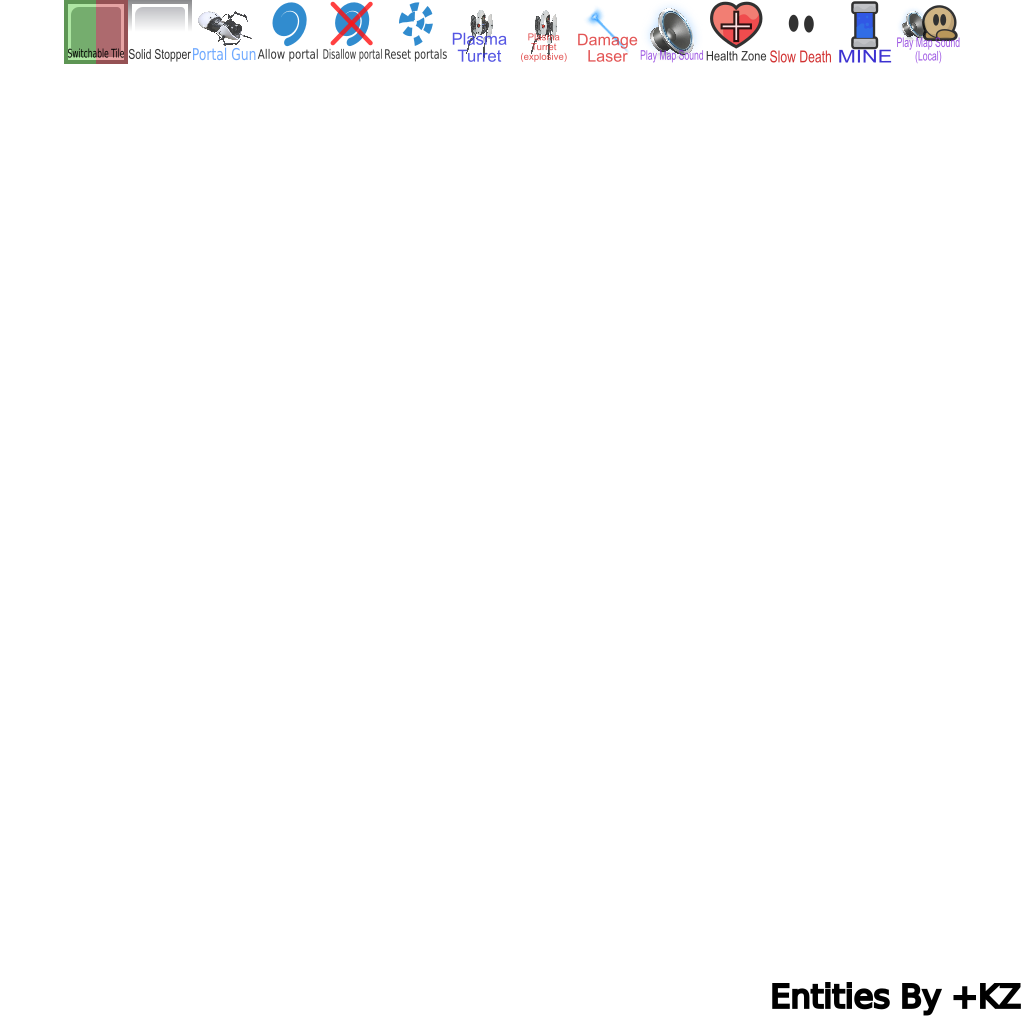
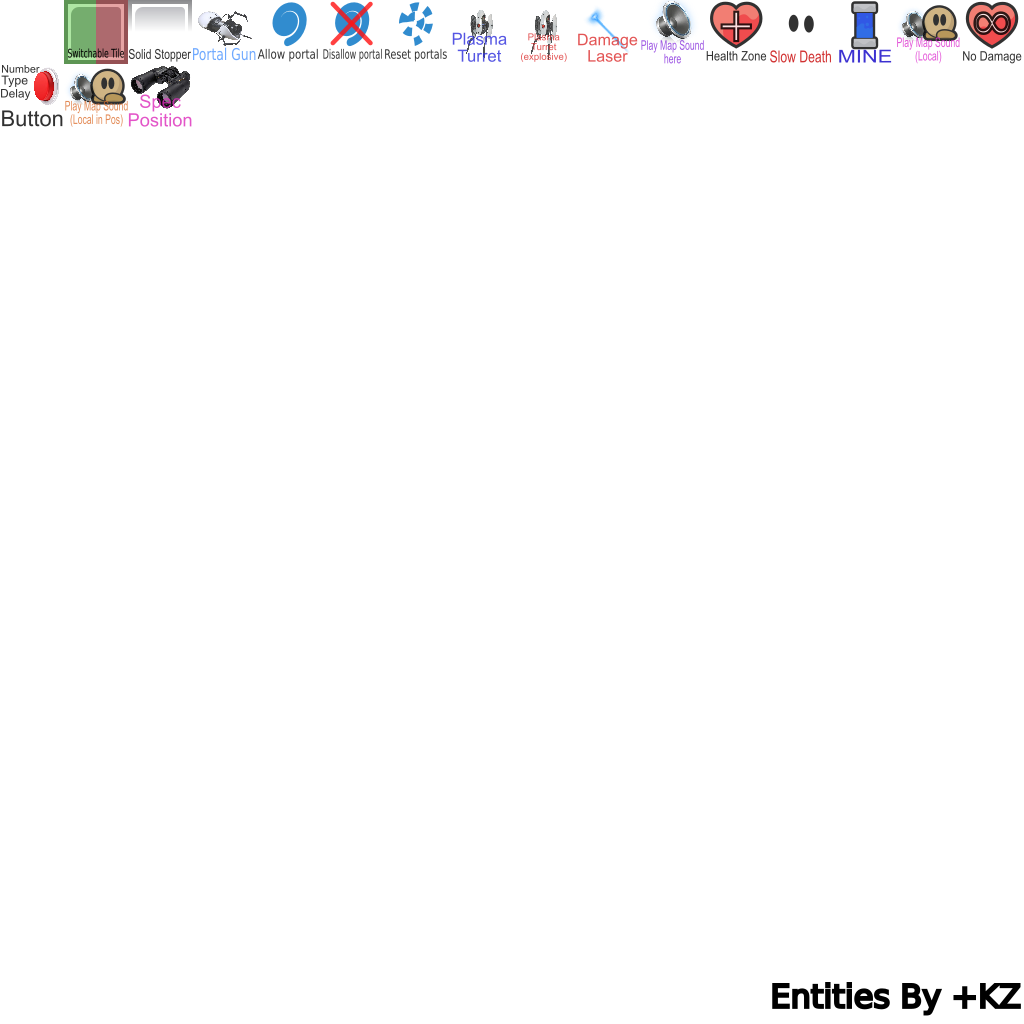
even more tiles

Changed region(s): [[0.0, 0.0625, 0.1875, 0.125], [0.875, 0.0, 1.0, 0.0625], [0.625, 0.0, 0.6875, 0.0625]]

diff --git a/src/game/server/entities/character.cpp b/src/game/server/entities/character.cpp
@@ -900,6 +900,9 @@ void CCharacter::Tick()
 	m_PrevInput = m_Input;
 
 	m_PrevPos = m_Core.m_Pos;
+
+	//+KZ
+	m_StillPressingFire = (m_Input.m_Fire & 1);
 }
 
 void CCharacter::TickDeferred()
@@ -2772,6 +2775,21 @@ void CCharacter::HandleKZTiles()
 		m_LastLocalSoundPlayed = -1;
 	}
 
+	if(pKZTile && pKZTile->m_Index == KZ_TILE_SOUND_PLAY_LOCAL_IN_POS && m_LastLocalInPosSoundPlayed != pKZTile->m_Value1 && (pKZTile->m_Number ? Switchers()[pKZTile->m_Number].m_aStatus[Team()] : true))
+	{
+		GameServer()->CreateMapSoundEventForClient(m_Pos, pKZTile->m_Value1, m_pPlayer->GetCid(), TeamMask());
+		m_LastLocalInPosSoundPlayed = pKZTile->m_Value1;
+	}
+	else if(pKZTileFront && pKZTileFront->m_Index == KZ_TILE_SOUND_PLAY_LOCAL_IN_POS && m_LastLocalInPosSoundPlayed != pKZTileFront->m_Value1 && (pKZTileFront->m_Number ? Switchers()[pKZTileFront->m_Number].m_aStatus[Team()] : true))
+	{
+		GameServer()->CreateMapSoundEventForClient(m_Pos, pKZTileFront->m_Value1, m_pPlayer->GetCid(), TeamMask());
+		m_LastLocalInPosSoundPlayed = pKZTileFront->m_Value1;
+	}
+	else if(!(pKZTile && pKZTile->m_Index == KZ_TILE_SOUND_PLAY_LOCAL_IN_POS) && !(pKZTileFront && pKZTileFront->m_Index == KZ_TILE_SOUND_PLAY_LOCAL_IN_POS))
+	{
+		m_LastLocalInPosSoundPlayed = -1;
+	}
+
 	if(pKZTile && pKZTile->m_Index == KZ_TILE_HEALTH_ZONE && (pKZTile->m_Number ? Switchers()[pKZTile->m_Number].m_aStatus[Team()] : true) && Server()->Tick() % Server()->TickSpeed() == 0)
 	{
 		IncreaseHealth((int)pKZTile->m_Value1 + 1);
@@ -2790,6 +2808,84 @@ void CCharacter::HandleKZTiles()
 	else if(pKZTileFront && pKZTileFront->m_Index == KZ_TILE_DAMAGE_ZONE && (pKZTileFront->m_Number ? Switchers()[pKZTileFront->m_Number].m_aStatus[Team()] : true) && Server()->Tick() % Server()->TickSpeed() == 0)
 	{
 		TakeDamageVanilla(vec2(0,0),(int)pKZTile->m_Value1 + 1,m_pPlayer ? m_pPlayer->GetCid() : -1, WEAPON_WORLD);
+	}
+
+	//+KZ Game Only Tiles
+	if(pKZTile)
+	{
+		if(!m_NODAMAGE && pKZTile->m_Index == KZ_GAMETILE_NO_DAMAGE && (pKZTile->m_Number ? Switchers()[pKZTile->m_Number].m_aStatus[Team()] : true))
+		{
+			m_NODAMAGE = true;
+			GameServer()->SendChatTarget(m_pPlayer->GetCid(),"Now you can not take damage");
+		}
+
+		if(pKZTile->m_Index == KZ_GAMETILE_TOGGLE_BUTTON && pKZTile->m_Number)
+		{
+			if(!(Server()->Tick() % Server()->TickSpeed()))
+			{
+				GameServer()->SendBroadcast("Hammer the button to use it", m_pPlayer->GetCid(), false);
+			}
+
+			if(m_Core.m_ActiveWeapon == WEAPON_HAMMER && (m_Input.m_Fire & 1) && !m_StillPressingFire)
+			{
+				switch(pKZTile->m_Value1) //Type
+				{
+					case 0: //switch deactivate
+						{
+							Switchers()[pKZTile->m_Number].m_aStatus[Team()] = true;
+							Switchers()[pKZTile->m_Number].m_aEndTick[Team()] = 0;
+							Switchers()[pKZTile->m_Number].m_aType[Team()] = TILE_SWITCHOPEN;
+							Switchers()[pKZTile->m_Number].m_aLastUpdateTick[Team()] = Server()->Tick();
+						}
+						break;
+					case 1: //switch timed deactivate
+						{
+							Switchers()[pKZTile->m_Number].m_aStatus[Team()] = true;
+							Switchers()[pKZTile->m_Number].m_aEndTick[Team()] = Server()->Tick() + 1 + pKZTile->m_Value2 * Server()->TickSpeed();
+							Switchers()[pKZTile->m_Number].m_aType[Team()] = TILE_SWITCHTIMEDOPEN;
+							Switchers()[pKZTile->m_Number].m_aLastUpdateTick[Team()] = Server()->Tick();
+						}
+						break;
+					case 2: //switch timed activate
+						{
+							Switchers()[pKZTile->m_Number].m_aStatus[Team()] = false;
+							Switchers()[pKZTile->m_Number].m_aEndTick[Team()] = Server()->Tick() + 1 + pKZTile->m_Value2 * Server()->TickSpeed();
+							Switchers()[pKZTile->m_Number].m_aType[Team()] = TILE_SWITCHTIMEDCLOSE;
+							Switchers()[pKZTile->m_Number].m_aLastUpdateTick[Team()] = Server()->Tick();
+						}
+						break;
+					case 3: //switch activate
+						{
+							Switchers()[pKZTile->m_Number].m_aStatus[Team()] = false;
+							Switchers()[pKZTile->m_Number].m_aEndTick[Team()] = 0;
+							Switchers()[pKZTile->m_Number].m_aType[Team()] = TILE_SWITCHCLOSE;
+							Switchers()[pKZTile->m_Number].m_aLastUpdateTick[Team()] = Server()->Tick();
+						}
+						break;
+
+					default:
+						break;
+				}
+
+				vec2 HitPos = m_Pos;
+
+				HitPos.x += 16 - ((int)HitPos.x % 32);
+				HitPos.y += 16 - ((int)HitPos.y % 32);
+
+				GameServer()->CreateHammerHit(HitPos,TeamMask());
+			}
+		}
+
+		if(!m_SpecTile && pKZTile->m_Index == KZ_GAMETILE_SPEC_POS && (pKZTile->m_Number ? Switchers()[pKZTile->m_Number].m_aStatus[Team()] : true))
+		{
+			m_SpecTile = true;
+			m_SpecTilePos.x = (float)pKZTile->m_Value1 * 32 + 16;
+			m_SpecTilePos.y = (float)pKZTile->m_Value2 * 32 + 16;
+		}
+		else if(m_SpecTile && pKZTile->m_Index != KZ_GAMETILE_SPEC_POS && (pKZTile->m_Number ? !(Switchers()[pKZTile->m_Number].m_aStatus[Team()]) : true))
+		{
+			m_SpecTile = false;
+		}
 	}
 
 	//+KZ Front Only Tiles
@@ -2879,6 +2975,9 @@ void CCharacter::HandleKZTiles()
 bool CCharacter::TakeDamageVanilla(vec2 Force, int Dmg, int From, int Weapon)
 {
 	m_Core.m_Vel += Force;
+
+	if(m_NODAMAGE || IsSuper() || m_Core.m_Invincible)
+		return false;
 
 	// m_pPlayer only inflicts half damage on self //+KZ no
 	//if(From == m_pPlayer->GetCid())

diff --git a/src/game/server/player.cpp b/src/game/server/player.cpp
@@ -276,6 +276,11 @@ void CPlayer::Tick()
 			GameServer()->SendEmoticon(GetCid(), EMOTICON_GHOST, -1);
 		}
 	}
+
+	if(GetCharacter() && GetCharacter()->m_SpecTile)
+	{
+		m_ViewPos = GetCharacter()->m_SpecTilePos;
+	}
 }
 
 void CPlayer::PostTick()
@@ -472,7 +477,7 @@ void CPlayer::Snap(int SnappingClient)
 	pDDNetPlayer->m_Flags = 0;
 	if(m_Afk || m_PlayerFlags & PLAYERFLAG_IN_MENU) // Raid added in menu
 		pDDNetPlayer->m_Flags |= EXPLAYERFLAG_AFK;
-	if(m_Paused == PAUSE_SPEC)
+	if(m_Paused == PAUSE_SPEC || (GetCharacter() && GetCharacter()->m_SpecTile)) //+KZ
 		pDDNetPlayer->m_Flags |= EXPLAYERFLAG_SPEC;
 	if(m_Paused == PAUSE_PAUSED)
 		pDDNetPlayer->m_Flags |= EXPLAYERFLAG_PAUSED;
@@ -564,7 +569,7 @@ void CPlayer::OnPredictedInput(CNetObj_PlayerInput *pNewInput)
 
 	m_NumInputs++;
 
-	if(m_pCharacter && !m_Paused && !(pNewInput->m_PlayerFlags & PLAYERFLAG_SPEC_CAM))
+	if(m_pCharacter && !m_Paused && (m_pCharacter->m_SpecTile ? true : !(pNewInput->m_PlayerFlags & PLAYERFLAG_SPEC_CAM)))
 		m_pCharacter->OnPredictedInput(pNewInput);
 
 	// Magic number when we can hope that client has successfully identified itself
@@ -604,7 +609,7 @@ void CPlayer::OnPredictedEarlyInput(CNetObj_PlayerInput *pNewInput)
 	if(m_PlayerFlags & PLAYERFLAG_CHATTING)
 		return;
 
-	if(m_pCharacter && !m_Paused && !(m_PlayerFlags & PLAYERFLAG_SPEC_CAM))
+	if(m_pCharacter && !m_Paused && (m_pCharacter->m_SpecTile ? true : !(m_PlayerFlags & PLAYERFLAG_SPEC_CAM))) //+KZ modified
 		m_pCharacter->OnDirectInput(pNewInput);
 }
 

diff --git a/src/game/server/eventhandler_kz.cpp b/src/game/server/eventhandler_kz.cpp
@@ -1,0 +1,33 @@
+/* (c) Magnus Auvinen. See licence.txt in the root of the distribution for more information. */
+/* If you are missing that file, acquire a complete release at teeworlds.com.                */
+#include "eventhandler.h"
+
+#include "entity.h"
+#include "gamecontext.h"
+
+#include <base/system.h>
+#include <base/vmath.h>
+
+//////////////////////////////////////////////////
+// Event handler +KZ
+//////////////////////////////////////////////////
+
+void *CEventHandler::CreateForClient(int Type, int Size, int ClientId, CClientMask Mask)
+{
+	void *p = Create(Type,Size,Mask);
+
+	if(p)
+	{
+		m_aForClientId[m_NumEvents - 1] = ClientId;
+	}
+
+	return p;
+}
+
+void CEventHandler::ClearKZ()
+{
+	for(int i = 0; i++; i < MAX_EVENTS)
+	{
+		m_aForClientId[i] = -5;
+	}
+}

diff --git a/src/game/server/eventhandler.cpp b/src/game/server/eventhandler.cpp
@@ -43,13 +43,15 @@ void CEventHandler::Clear()
 {
 	m_NumEvents = 0;
 	m_CurrentOffset = 0;
+
+	ClearKZ(); //+KZ
 }
 
 void CEventHandler::Snap(int SnappingClient)
 {
 	for(int i = 0; i < m_NumEvents; i++)
 	{
-		if(SnappingClient == SERVER_DEMO_CLIENT || m_aClientMasks[i].test(SnappingClient))
+		if((SnappingClient == SERVER_DEMO_CLIENT || m_aClientMasks[i].test(SnappingClient)) && ((m_aForClientId[i] == -5) ? true : (m_aForClientId[i] == SnappingClient)))
 		{
 			CNetEvent_Common *pEvent = (CNetEvent_Common *)&m_aData[m_aOffsets[i]];
 			if(!NetworkClipped(GameServer(), SnappingClient, vec2(pEvent->m_X, pEvent->m_Y)))

diff --git a/src/game/server/gamecontext_kz.cpp b/src/game/server/gamecontext_kz.cpp
@@ -146,6 +146,17 @@ void CGameContext::CreateMapSoundEvent(vec2 Pos, int Id, CClientMask Mask)
 	}
 }
 
+void CGameContext::CreateMapSoundEventForClient(vec2 Pos, int Id, int ClientId, CClientMask Mask)
+{
+	CNetEvent_MapSoundWorld *pEvent = m_Events.CreateForClient<CNetEvent_MapSoundWorld>(ClientId, Mask);
+	if(pEvent)
+	{
+		pEvent->m_X = (int)Pos.x;
+		pEvent->m_Y = (int)Pos.y;
+		pEvent->m_SoundId = Id;
+	}
+}
+
 void CGameContext::ConRejoinShutdown(IConsole::IResult *pResult, void *pUserData)
 {
     CGameContext *pSelf = (CGameContext *)pUserData;

diff --git a/src/game/server/eventhandler.h b/src/game/server/eventhandler.h
@@ -43,6 +43,19 @@ public:
 	void Snap(int SnappingClient);
 
 	void EventToSixup(int *pType, int *pSize, const char **ppData);
+
+	//+KZ
+	int m_aForClientId[MAX_EVENTS];
+
+	void ClearKZ();
+
+	void *CreateForClient(int Type, int Size, int ClientId, CClientMask Mask = CClientMask().set());
+
+	template<typename T>
+	T *CreateForClient(int ClientId, CClientMask Mask = CClientMask().set())
+	{
+		return static_cast<T *>(CreateForClient(T::ms_MsgId, sizeof(T), ClientId, Mask));
+	}
 };
 
 #endif

diff --git a/src/game/server/gamecontext.h b/src/game/server/gamecontext.h
@@ -612,6 +612,7 @@ public:
 	void SendGameMsg(int GameMsgId, int ParaI1, int ParaI2, int ParaI3, int ClientId) const;
 
 	void CreateMapSoundEvent(vec2 Pos, int Id, CClientMask Mask = CClientMask().set());
+	void CreateMapSoundEventForClient(vec2 Pos, int Id, int ClientId, CClientMask Mask = CClientMask().set());
 
 	void RegisterKZCommands();
 

diff --git a/src/game/server/gamecontroller.cpp b/src/game/server/gamecontroller.cpp
@@ -634,6 +634,8 @@ void IGameController::Snap(int SnappingClient)
 	//+KZ
 	if(m_ShowHealth)
 		pGameInfoEx->m_Flags2 |= GAMEINFOFLAG2_HUD_HEALTH_ARMOR;
+	if(pPlayer && pPlayer->GetCharacter() && pPlayer->GetCharacter()->m_SpecTile)
+		pGameInfoEx->m_Flags ^= GAMEINFOFLAG_BUG_DDRACE_INPUT; 
 
 	if(Server()->IsSixup(SnappingClient))
 	{

diff --git a/src/game/server/entities/character.h b/src/game/server/entities/character.h
@@ -285,6 +285,11 @@ public:
 	bool m_Waitingforreleaseaim = false;
 	int64_t m_LastSoundPlayed = -1;
 	int64_t m_LastLocalSoundPlayed = -1;
+	int64_t m_LastLocalInPosSoundPlayed = -1;
+	bool m_NODAMAGE = false;
+	bool m_StillPressingFire = false;
+	bool m_SpecTile = false;
+	vec2 m_SpecTilePos = vec2(0,0);
 
 	struct
 	{

diff --git a/src/game/mapitems_kz.h b/src/game/mapitems_kz.h
@@ -24,9 +24,16 @@ enum
 	KZ_TILE_DAMAGE_ZONE,
 	KZ_TILE_MINE,
 	KZ_TILE_SOUND_PLAY_LOCAL,
+	
+	KZ_GAMETILE_NO_DAMAGE = 15,
+	KZ_GAMETILE_TOGGLE_BUTTON,
 
 	KZ_FRONTTILE_FORCE_POS = 15,
 	KZ_FRONTTILE_KZ_PLAYER_TELEPORT,
+
+	KZ_TILE_SOUND_PLAY_LOCAL_IN_POS,
+
+	KZ_GAMETILE_SPEC_POS = 18,
 };
 
 enum
